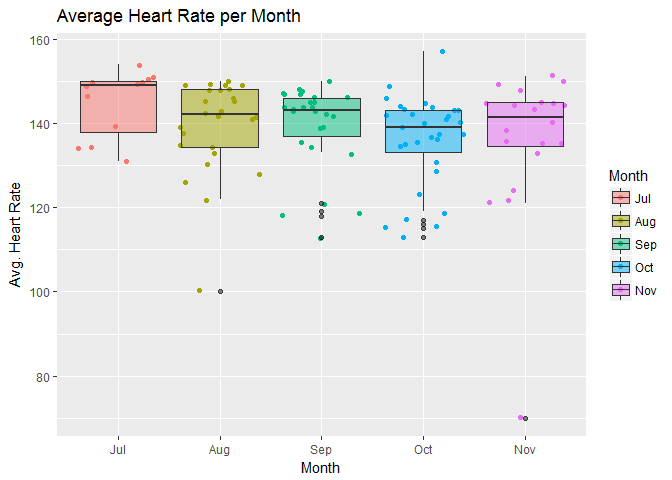
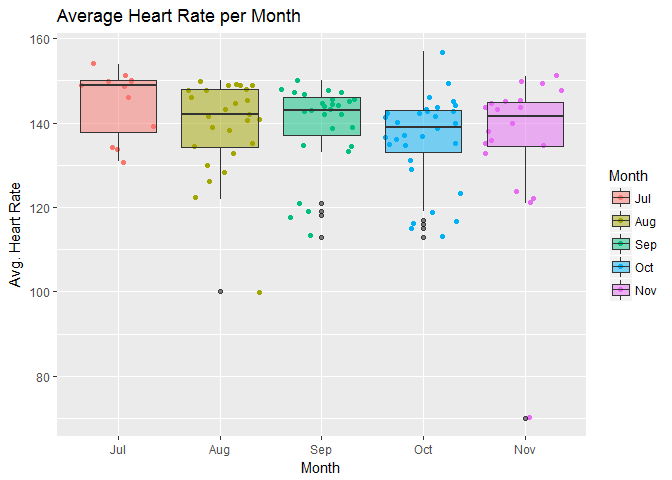
Update index.md'

diff --git a/Files/R_Analysis_Markdown.md b/Files/R_Analysis_Markdown.md
@@ -1,0 +1,201 @@
+Marathon Training Plan Data Analysis
+================
+
+*Initial Data Inspection*
+=========================
+
+First, I load in the CSV file created in the **R\_Cleaning\_Garmin\_Strava** script file, which contains the combined dataset of runs from my Philadelphia Marathon training plan from both Strava and Garmin Connect. I then inspect the data to make sure I have all the correct data in the correct data types.
+
+    ## 'data.frame':    116 obs. of  21 variables:
+    ##  $ X                 : int  12 15 94 4 6 8 13 16 95 5 ...
+    ##  $ ID                : int  646029304 647216014 648410753 649445500 650512799 651933678 653912805 655096239 656203325 657259723 ...
+    ##  $ Name              : Factor w/ 13 levels "10k Tune Up Run",..: 2 7 10 3 10 4 3 7 10 7 ...
+    ##  $ Gear              : Factor w/ 4 levels "ASICS dunno Black, Yellow, Red",..: 2 2 1 2 1 2 2 2 1 2 ...
+    ##  $ Date              : Factor w/ 116 levels "2016-07-19","2016-07-20",..: 1 2 3 4 5 6 7 8 9 10 ...
+    ##  $ Month             : Factor w/ 5 levels "Aug","Jul","Nov",..: 2 2 2 2 2 2 2 2 2 2 ...
+    ##  $ monthNum          : int  7 7 7 7 7 7 7 7 7 7 ...
+    ##  $ DOW               : Factor w/ 7 levels "Fri","Mon","Sat",..: 6 7 5 1 3 4 6 7 5 1 ...
+    ##  $ StartTime         : Factor w/ 89 levels "2017-04-07 05:02:00",..: 28 21 37 16 41 46 16 7 34 6 ...
+    ##  $ Distance          : num  9.01 11 4 11 6 ...
+    ##  $ Time              : Factor w/ 114 levels "2017-04-07 00:07:43",..: 50 69 14 74 31 103 59 87 6 83 ...
+    ##  $ Speed.mph         : num  3.72 3.54 3.29 3.49 3.33 ...
+    ##  $ Cad               : num  168 168 171 176 174 ...
+    ##  $ Elevation.Gain    : int  351 461 NA 468 230 572 400 485 NA 477 ...
+    ##  $ Avg.HR            : int  149 150 139 150 131 154 150 146 134 149 ...
+    ##  $ Max.HR            : int  167 160 149 161 155 165 159 158 142 160 ...
+    ##  $ Calories          : int  943 1176 442 1170 721 1653 1090 1318 314 1241 ...
+    ##  $ RunType           : Factor w/ 5 levels "Long Run","Race",..: 5 4 3 4 3 1 4 4 3 4 ...
+    ##  $ weekNumber        : int  1 1 1 1 1 1 2 2 2 2 ...
+    ##  $ Avg.Pace          : Factor w/ 67 levels "2017-04-07 00:06:32",..: 13 32 57 38 55 39 33 41 48 49 ...
+    ##  $ morningNightBucket: Factor w/ 4 levels "Afternoon","Evening",..: 4 4 4 4 3 3 4 4 4 4 ...
+
+Well, to start off, I have a column which seems to contain the row numbers from the CSv, so let's remove that before going back to the inspection.
+
+    ##          ID           Name                   Gear       Date Month
+    ## 1 646029304 Classic LT Run Brooks Ghost Red/Black 2016-07-19   Jul
+    ## 2 647216014         ML Run Brooks Ghost Red/Black 2016-07-20   Jul
+    ##   monthNum DOW           StartTime Distance                Time Speed.mph
+    ## 1        7 Tue 2017-04-07 05:51:00     9.01 2017-04-07 01:04:59    3.7179
+    ## 2        7 Wed 2017-04-07 05:36:00    11.00 2017-04-07 01:23:29    3.5350
+    ##     Cad Elevation.Gain Avg.HR Max.HR Calories RunType weekNumber
+    ## 1 168.4            351    149    167      943 Workout          1
+    ## 2 168.4            461    150    160     1176     Run          1
+    ##              Avg.Pace morningNightBucket
+    ## 1 2017-04-07 00:07:13            Sunrise
+    ## 2 2017-04-07 00:07:35            Sunrise
+
+Alright, cool. But it looks like my Date field, **Date**, total run time field, **Time**, and average pace (min/mile) field, **Avg.Pace**, are not in the POSIXct format needed. So let's put them back into the correct format the lubridate package.
+
+``` r
+runs$Time <- as.POSIXct(runs$Time)#, format = '%H:%M:%S')
+runs$Avg.Pace <- as.POSIXct(runs$Avg.Pace)#, format = '%H:%M:%S')
+runs$Date <- as.POSIXct(runs$Date)
+runs$StartTime <- hour(strptime(runs$StartTime, format = '%H:%M'))
+
+str(runs)
+```
+
+    ## 'data.frame':    116 obs. of  20 variables:
+    ##  $ ID                : int  646029304 647216014 648410753 649445500 650512799 651933678 653912805 655096239 656203325 657259723 ...
+    ##  $ Name              : Factor w/ 13 levels "10k Tune Up Run",..: 2 7 10 3 10 4 3 7 10 7 ...
+    ##  $ Gear              : Factor w/ 4 levels "ASICS dunno Black, Yellow, Red",..: 2 2 1 2 1 2 2 2 1 2 ...
+    ##  $ Date              : POSIXct, format: "2016-07-19" "2016-07-20" ...
+    ##  $ Month             : Factor w/ 5 levels "Aug","Jul","Nov",..: 2 2 2 2 2 2 2 2 2 2 ...
+    ##  $ monthNum          : int  7 7 7 7 7 7 7 7 7 7 ...
+    ##  $ DOW               : Factor w/ 7 levels "Fri","Mon","Sat",..: 6 7 5 1 3 4 6 7 5 1 ...
+    ##  $ StartTime         : int  NA NA NA NA NA NA NA NA NA NA ...
+    ##  $ Distance          : num  9.01 11 4 11 6 ...
+    ##  $ Time              : POSIXct, format: "2017-04-07 01:04:59" "2017-04-07 01:23:29" ...
+    ##  $ Speed.mph         : num  3.72 3.54 3.29 3.49 3.33 ...
+    ##  $ Cad               : num  168 168 171 176 174 ...
+    ##  $ Elevation.Gain    : int  351 461 NA 468 230 572 400 485 NA 477 ...
+    ##  $ Avg.HR            : int  149 150 139 150 131 154 150 146 134 149 ...
+    ##  $ Max.HR            : int  167 160 149 161 155 165 159 158 142 160 ...
+    ##  $ Calories          : int  943 1176 442 1170 721 1653 1090 1318 314 1241 ...
+    ##  $ RunType           : Factor w/ 5 levels "Long Run","Race",..: 5 4 3 4 3 1 4 4 3 4 ...
+    ##  $ weekNumber        : int  1 1 1 1 1 1 2 2 2 2 ...
+    ##  $ Avg.Pace          : POSIXct, format: "2017-04-07 00:07:13" "2017-04-07 00:07:35" ...
+    ##  $ morningNightBucket: Factor w/ 4 levels "Afternoon","Evening",..: 4 4 4 4 3 3 4 4 4 4 ...
+
+Looks like **Month** was also not loaded as on *ordered* factor like I need it. As it is now, if I used it in my graphs, it would be ordereded alphabetically, not chronologically like I need it. So let's convert it back to an ordered factor with the correctly-specified ordering via the **levels** argument.
+
+``` r
+runs$Month <- factor(runs$Month, ordered = TRUE, levels = c("Jul","Aug","Sep","Oct","Nov"))
+```
+
+Now its time to acually make some plots.
+
+*Analysis*
+==========
+
+I'll start off with a simple histogram of how many miles I ran in each of my runs.
+
+![](R_Analysis_Markdown_files/figure-markdown_github/plotting-1.png)
+
+It looks like the majority of my runs (20 of 'em) were between 10 and 12 miles, with the next highest frequency being from 4 to 6 miles, which were mostly recovery runs, showing that there was indeed a lot decent amount of time for recovery in this plan. We can also see my one 24 mile run all the way to the right, my longest Long Run of the plan. So this distribution is right/positively-skewed, with the majority of the runs being, looking at this plot, less than 12 miles. Let's look at the summary of this data.
+
+``` r
+summary(runs$Distance)
+```
+
+    ##    Min. 1st Qu.  Median    Mean 3rd Qu.    Max. 
+    ##   1.000   6.000  10.000   9.907  13.000  26.270
+
+So, since we have a skewed distribution, we want to look at median as our measure of center. We can see the median number of miles I ran in a run is 10 miles, which is less than half of an actual marathon (mean is also basically 10, as well, just to note). So the majority of my runs seem pretty short, compared to the goal distance. This is because the point of a training plan is to get the body to adapt to a high volume of miles, but then to spread it over a period of time so that we can recover properly. We can also see the max distance here is the actual marathon. Now let's look at the total number of miles ran each month, with a pretty obvious expectation to see the total rise month-by-month.
+
+![](R_Analysis_Markdown_files/figure-markdown_github/miles%20by%20month-1.png)
+
+The largest number of miles ran, 308 miles, was in September, and then we see a *ever-so-slight* drop to 304 miles in October. This could be possibly so if my peak mileage week was in September. We then see a large drop from October to November, which was expected due tapering up the race and the fact that the race was on November 20th, so there's no more run data after that date.
+
+![](R_Analysis_Markdown_files/figure-markdown_github/peak%20week-1.png)
+
+Welp, I was half wrong about that I guess. It seems peak week, week 11, was actually both in September *and* October.
+
+    ##                Name weekNumber       Date DOW Distance
+    ## 61     Recovery Run         11 2016-09-26 Mon     4.00
+    ## 62           GA Run         11 2016-09-27 Tue    11.01
+    ## 63 LT Intervals Run         11 2016-09-28 Wed    12.01
+    ## 64     Recovery Run         11 2016-09-29 Thu     5.00
+    ## 65           ML Run         11 2016-09-30 Fri    15.01
+    ## 66           GA Run         11 2016-10-01 Sat    10.00
+    ## 67         Long Run         11 2016-10-02 Sun    24.00
+
+So the final 2 runs of peak week coincided with the start of October, with the longest run of the plan, 24 miles, taking place in this week.
+
+Another important metric for runners is their **cadence**, which is the number of steps taken per minute. The general consensus for a good cadence to run efficiently seems to be anywhere from 160 to 180 steps per minute, with more advanced and elite runners leaning towards the higher end.
+
+![](R_Analysis_Markdown_files/figure-markdown_github/cadence%20by%20month-1.png)
+
+So, I can see that my cadence tended to generally increases month over month, albeit *barely*, and ended up averagin between 170 and 180, barring those outliers. I would assume the outliers were mainly recovery runs, as I was mainly concerned with keeping my heart rate down so I could actually recover on them than I was with making sure my cadence was optimal. I could investigate to see if this was due to having more speed workouts as the plan progressed, in which I would assume my cadence was typically higher), or could it have been due to improved form from an ever-increasing volume.
+
+Another metric would be my **average heart rate** during runs over the course of the training. Compared to the rise of my cadence, I would expect that my average heart rate would have decreased over time, as my fitness would have increased due to higher mileage and an increasing number of workouts.
+
+![](R_Analysis_Markdown_files/figure-markdown_github/heart%20rate%20over%20time-1.png)
+
+So, it looks like my average heart rate decreased over time, barring two random extreme drops (shout-out again to my heart rate monitor). Let's check it out by month.
+
+![](R_Analysis_Markdown_files/figure-markdown_github/HR%20by%20month%20boxplot-1.png)
+
+So we can see that my hear rate had generally decreased month over month, albeit *barely*. *Again*. Now while I would hope it was due to increased fitness (and I still believe that to be the case, just by how I felt during my runs), the drops in temperature as we moved from summer to fall also may have played a part. Since it would have been cooler out, the body would not have been working as hard to cool itself down during my runs, so my heart rate would not have been as high. Maybe finding the historical temperature data and bringing it in could bring some insights into this question.
+
+Now let's look at cadence and heart rate by Run Type as well for comparisons.
+
+![](R_Analysis_Markdown_files/figure-markdown_github/cadence%20by%20run%20type-1.png)
+
+We can ignore the **Race** run type, since it's only one race. But we can still see that it was either my maximum cadence, or the second or third highest after those 2 quickest workout cadences. We can also see that my recovery runs had the least variability, and recovery runs, as well as normal runs, were in the lower 170's. I also expected my workouts to have the highest cadence, but it has the lowest median and the widest variety. I can only assume that this was due to recovery sections of interval runs, or warm-ups and cooldowns during tempo runs which were *much* slower and relaxed than even recovery runs.
+
+Now let's see if cadence and heart rate seem to have anything to do with each other.
+
+![](R_Analysis_Markdown_files/figure-markdown_github/cadence%20by%20hr-1.png)
+
+By looking at average heart rate by average cadence, we can see that there is no relationship at all here. I honestly expected heart rate to increase a bit as cadence increased, which it does sharply for Recovery Runs, but it actually looks to decrease as cadence increased during Normal Runs, and a bit as well during Workouts. Maybe I was more efficient in my running form than I thought during these runs. Now let's look at heart rate by runs types to see if there's some effect there.
+
+![](R_Analysis_Markdown_files/figure-markdown_github/heart%20rate%20by%20run%20type-1.png)
+
+As expected, my heart rate was lowest during recovery runs, but it was also quite varied. We can also see that there were 2 runs wherein my heart rate monitor was off, since my average heart rate was around 70. Also, my average heart rate was not very variable for the other 3 types of runs, excluding the race. This is good, since it means I was able to be consistent in my efforts, depending on the type of scheduled run. My Long Runs also tended to have a lower average heart rate than my "normal" runs, which I personally did not expect. But this does a make a little sense, since I was supposed to run at a bit of a slower pace so that I could run longer without bonking. Also, I did expect my heart rate to be higher during workouts, since they were designed to to push my heart rate to the max during **V02 intervals**, and was supposed to be elevated during those "comfortably hard" **tempo runs**. I can also see that there was one single workout wherein it was higher than my average heart rate during the marathon.
+
+    ##           ID        Name                      Gear       Date Month
+    ## 73 738343078 Tune-Up Run Hoka One One Clifton Reds 2016-10-08   Oct
+    ##    monthNum DOW StartTime Distance                Time Speed.mph Cad
+    ## 73       10 Sat        NA     9.33 2017-04-07 01:00:53    4.1107 139
+    ##    Elevation.Gain Avg.HR Max.HR Calories RunType weekNumber
+    ## 73            257    157    169      939 Workout         12
+    ##               Avg.Pace morningNightBucket
+    ## 73 2017-04-07 00:06:32            Morning
+
+So we can see that my max heart rate was during my 10k Tune-up Race, which does not surprise me since it .
+
+Let's now check out my average pace over time, split out by Run Type. I would hope that it would have decreased, just as average heart rate did, due to both increased form and increased fitness, as well as possibly due to decreased outside temperatures making it easier to run faster.
+
+![](R_Analysis_Markdown_files/figure-markdown_github/avg%20pace%20by%20runs-1.png)
+
+So we see a very slight general decrease overall, but it's not very linear at all, so it does not seem to be that significant. Let's split these into seperate scatter plots by run type.
+
+![](R_Analysis_Markdown_files/figure-markdown_github/avg%20pace%20by%20runs%20-%20seperate-1.png)
+
+And, we see that workouts had the lowest average pace, which seemed to actually decrease a tad until about halfway through the plan, but there was a variety of different workouts with different focuses, so this really isn't something we can glean anything out of. Long Runs start to decrease in average pace, possibly due to an increase in outside temperature from July to August causing me to slow down, but then we see a rapid increase, which start sto taper off at the end there. Normal runs seemed to have a more gradual increase over time, but it sped up a bit compared to at the start. Then we see that recovery runs increased down even more so compared to Long Runs, but also had a drop as temperatures cooled (or fitness increased, either or. Maybe both). There was then a quick uptick at the end there, which I would assume would be due to slowing down even more as I tapered for the race, with the 2 slowest recovery runs happening just before the race. We then see the race there, at about 7:10 min/mile, which, while I am happy with my results, I would *love* to get this down under 7:00 min/mile in my next marathon, Philly 2017, with the goal of running about 6:50 min/mile so as to break 3 hours!
+
+    ## 
+    ##     Long Run         Race Recovery Run          Run      Workout 
+    ##           13            1           40           46           16
+
+![](R_Analysis_Markdown_files/figure-markdown_github/bar%20of%20steps-1.png)
+
+Here we see the majority of runs I had were normal runs, with just a bit less recovery runs. But then in the bar chart, we can see that even though I only just over one quarter of the amount of long runs compared to the amount of recovery runs, the sum of steps taken during my long runs was greater than the sum of steps taken in all of my recovery runs. This makes sense, due to how much longer my long runs were, both in distance and in duration. We also see that steps taken during workouts was quite high compared to steps taken during recovery runs, despite having being just under a third of the amount of recovery runs.
+
+Let's see if my elevation gain had any affect on my average heart rate. I expect that it would, since a larger eleveation gain meant I was climbing more, which requires more exertion, so I expect my average heart rate to be higher with a higher elevation gain.
+
+![](R_Analysis_Markdown_files/figure-markdown_github/elevation%20and%20avg%20hr-1.png)
+
+So it looks like there was a very slight increase in average heart rate as elevation gain increased. And while the increase was not that large in magnitude, it seemed to be quite consistent for the majority of the x-axis. So this went in line with my expectation a bit. Let's see the max heart rate by elevation gain.
+
+![](R_Analysis_Markdown_files/figure-markdown_github/elevation%20and%20max%20hr-1.png)
+
+It's interesting to note that each run type has a very low variability in maximum heart rate with the exception of recovery runs. We see a good number of outliers for normal runs. There are also numerous maximum heart rates that are up to about 200, which was due to an inaccurate heart rate monitor, since the only chance I had of reaching that heart rate would have been when I was pushing myself to max exertion, which would have only occured during a workout, or during the race. But since this was a marathon, and not a 5K, I will assume it was another heart rate monitor inaccuracy, which is something we just can't always prevent.
+
+Conclusion
+==========
+
+That's all I can think of to check out so far. If you're reading this and can think of anything else, let me know in [LinkedIn!](https://www.linkedin.com/in/stephen-newns) I can't wait to add to this dataset with my training runs for Philly 2017, with the hopes of breaking 3 hours! But for now, I'm going to move onto the analysis of artists I listen to on Spotify via their API!
+
+The code for this can be found [here](https://github.com/newns92/MarathonTrainingAnalysis/blob/master/Files/R_Analysis_script.R), as well as the code for the [cleaning and initial creation of the dataset](https://github.com/newns92/MarathonTrainingAnalysis/blob/master/Files/R_CleaningScript.R)
